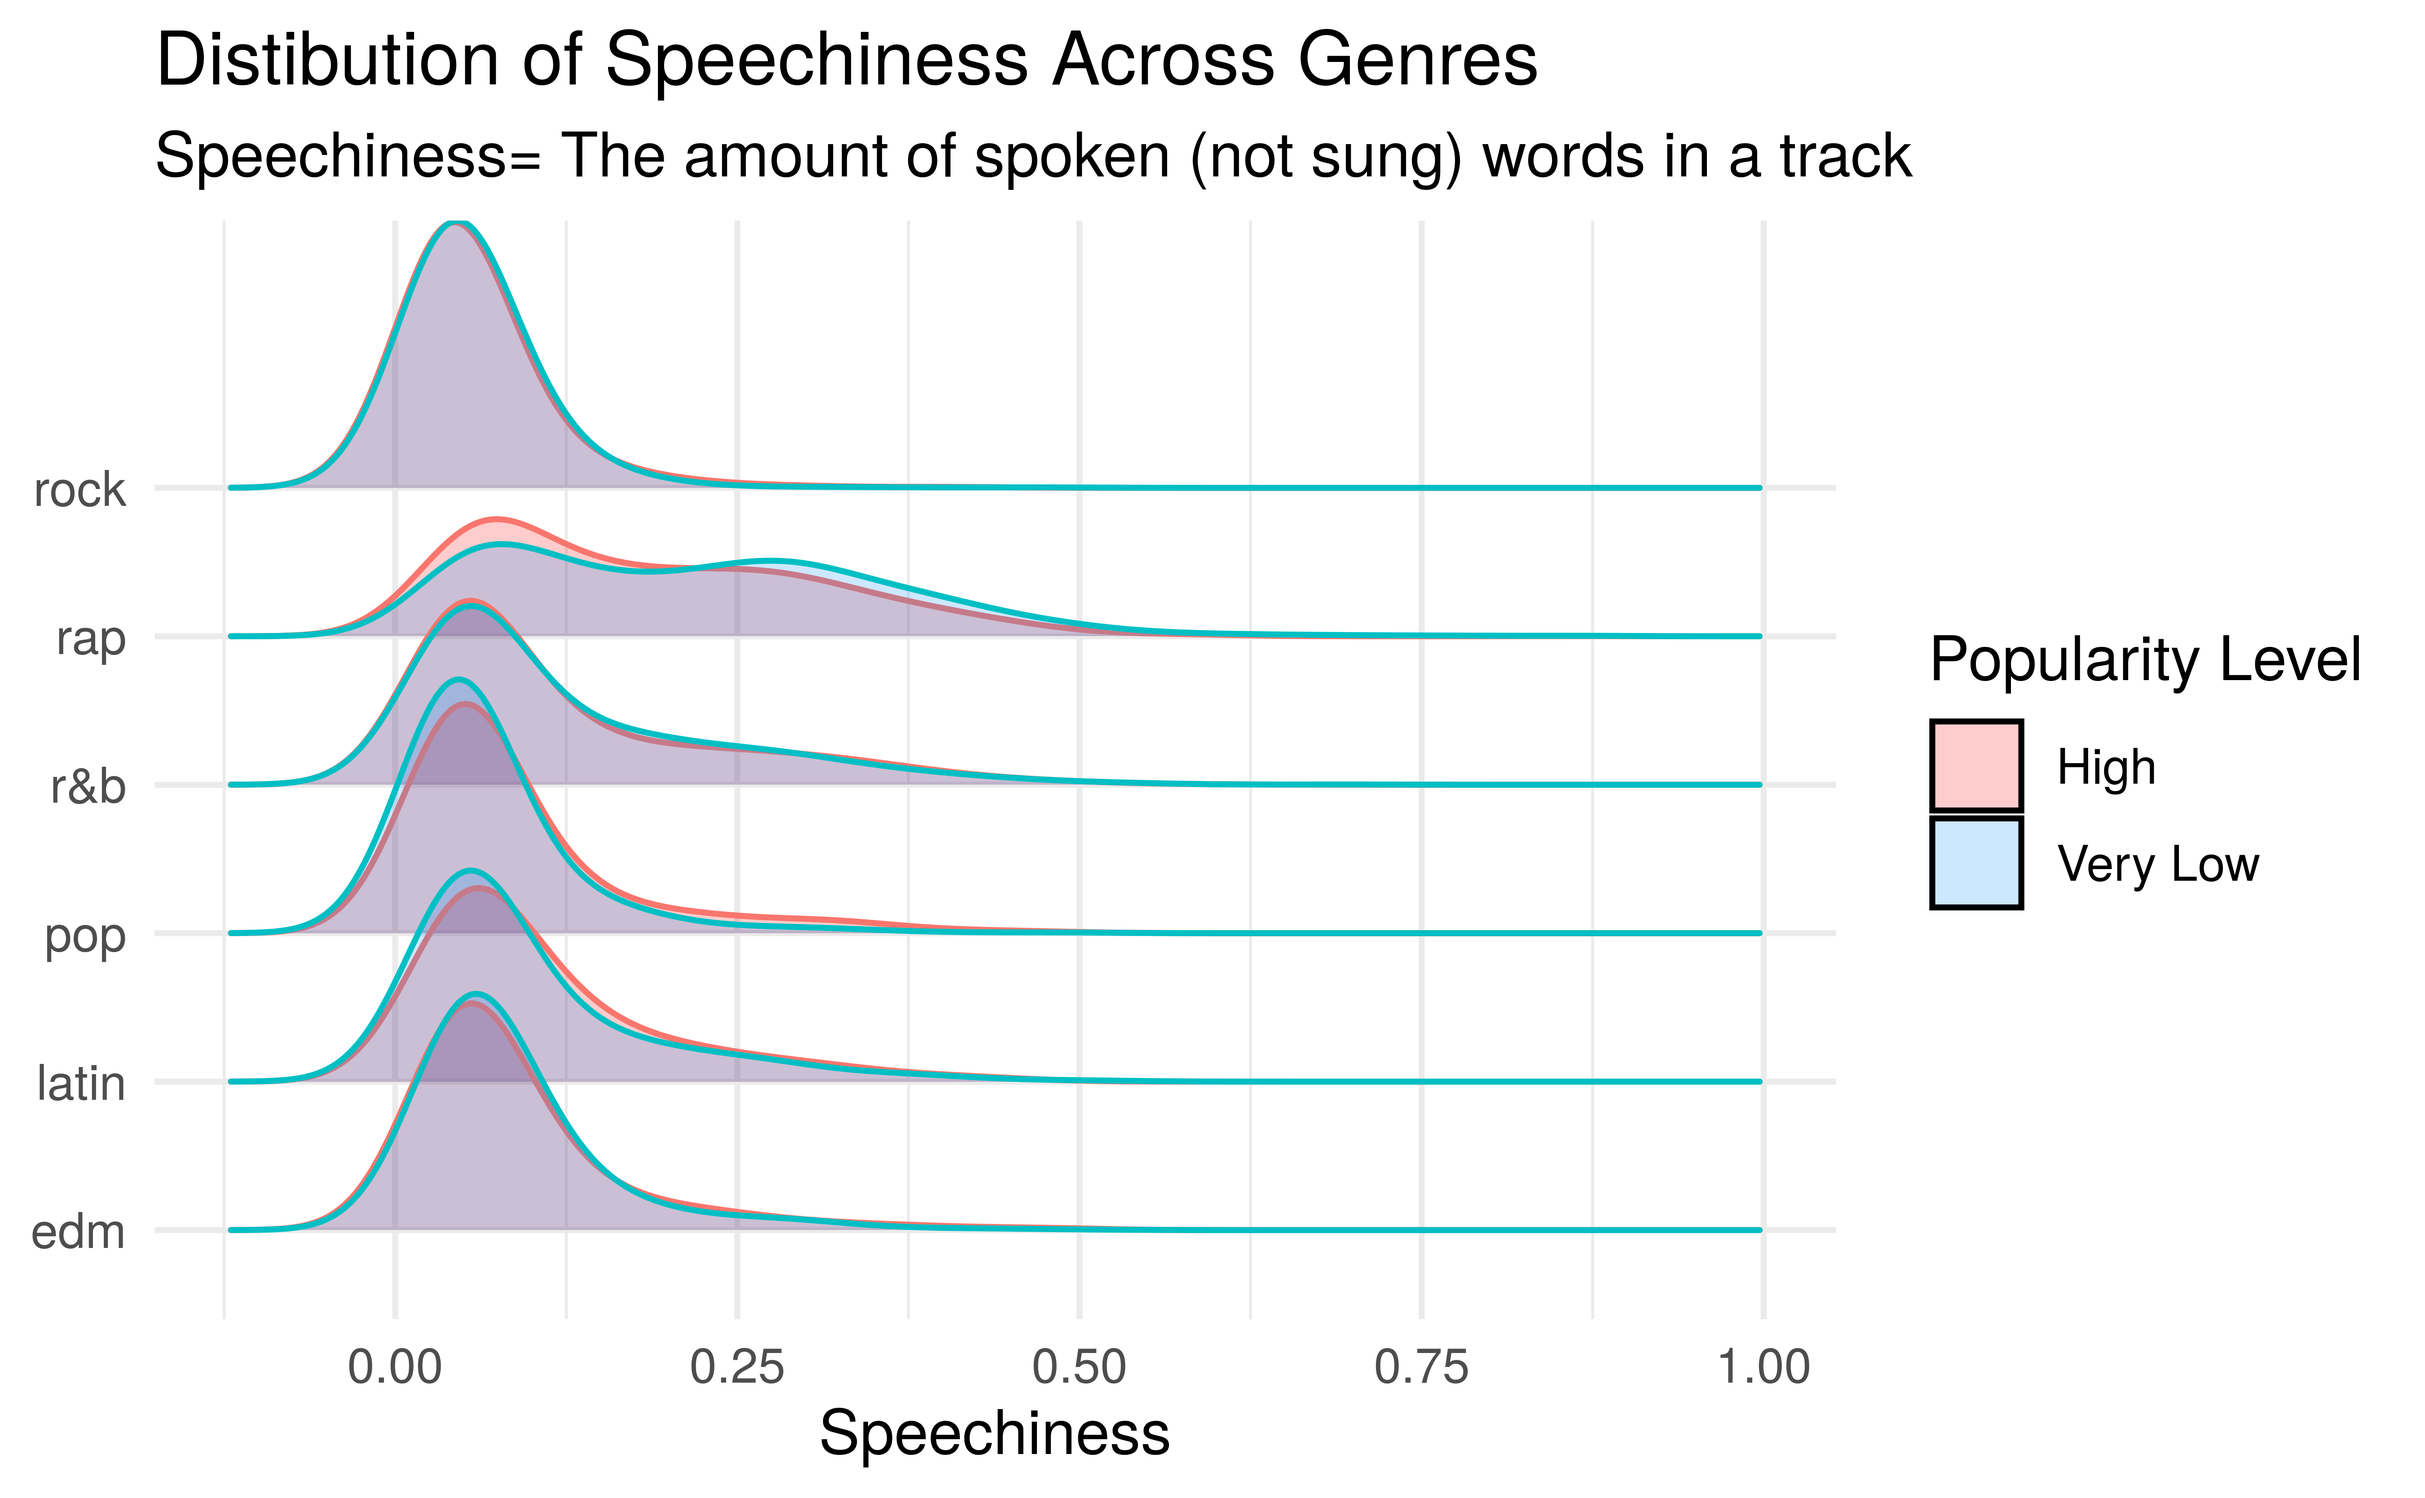
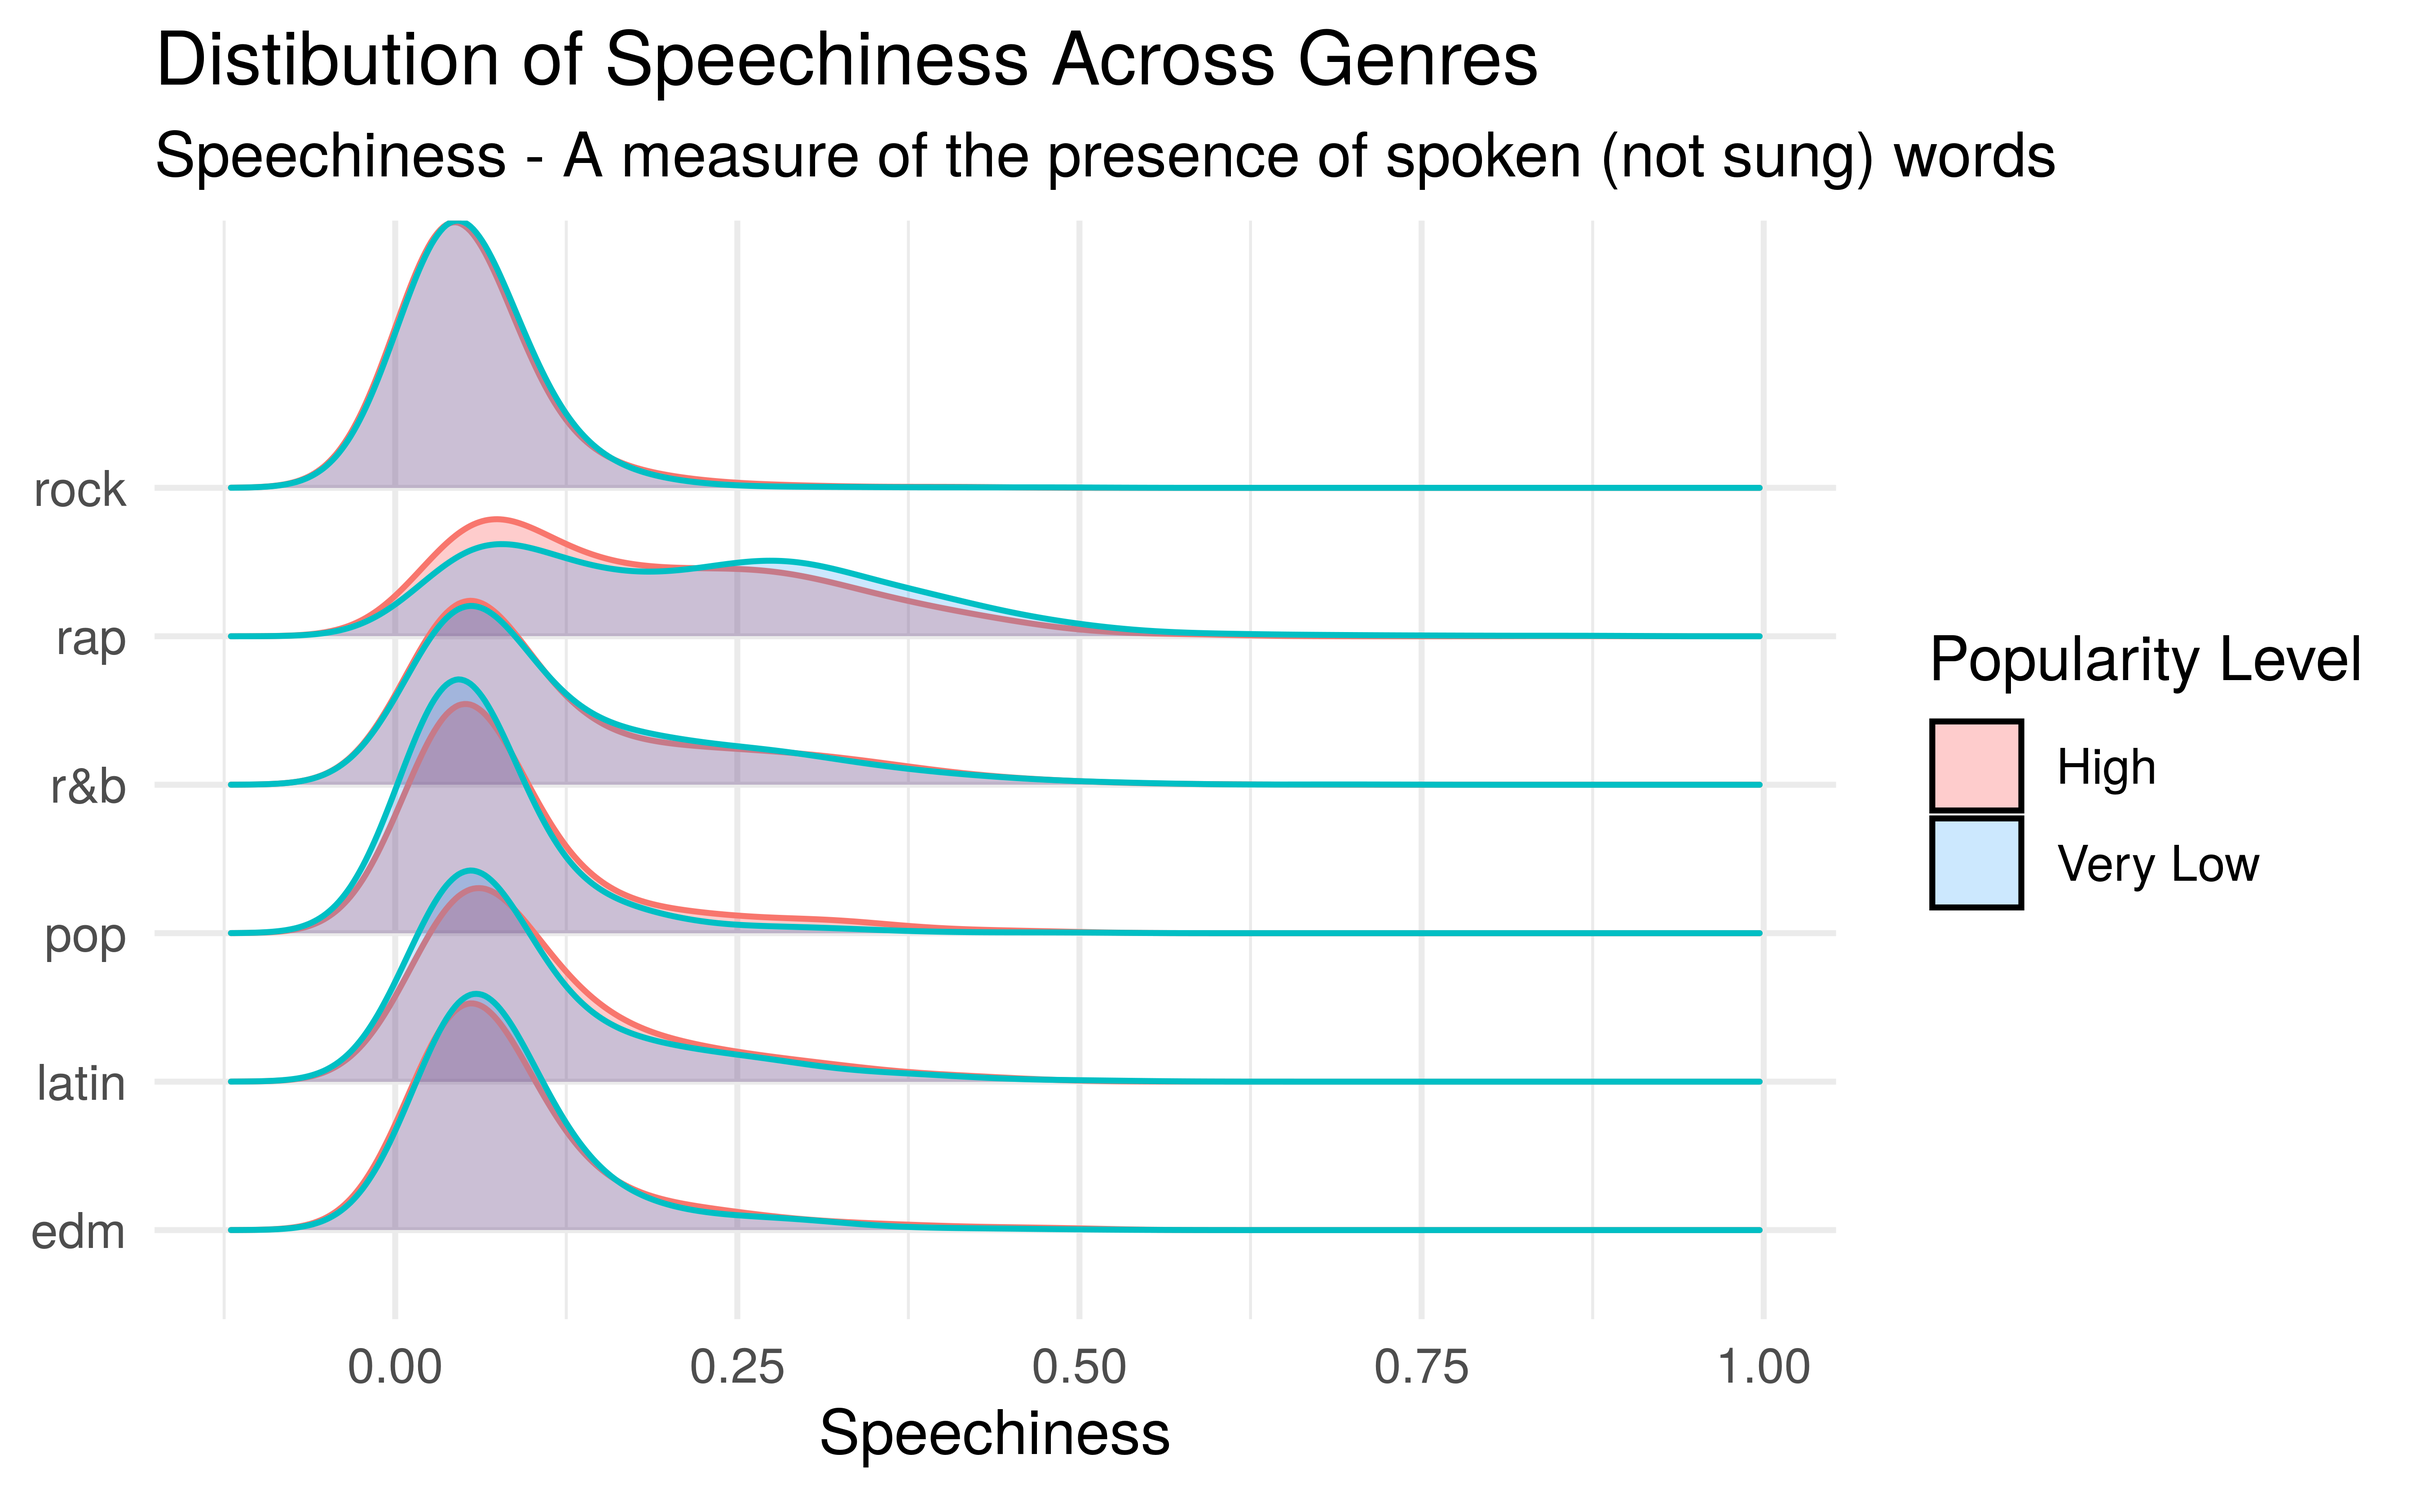
Fixed subtitles

Changed region(s): [[0.2178, 0.0935, 0.84, 0.1247]]

diff --git a/presentation/presentation.html b/presentation/presentation.html
@@ -96,11 +96,6 @@ class: center, middle, inverse, title-slide
 
 Track popularity predicted by model vs actual track popularity
 
-
-```
-## Adding missing grouping variables: `playlist_genre`
-```
-
 &lt;table&gt;
  &lt;thead&gt;
   &lt;tr&gt;
@@ -325,7 +320,7 @@ R squared (rsq) and root mean square error (rmse) of model
 &lt;img src="presentation_files/figure-html/pop-multiple-variable-analysis-1-1.png" width="80%" /&gt;
 ---
 
-# Multiple Variable analysis part 2
+# Multiple Variable Analysis part 2
 
 &lt;img src="presentation_files/figure-html/multiple-variable-analysis-2-1.png" width="80%" /&gt;
 
